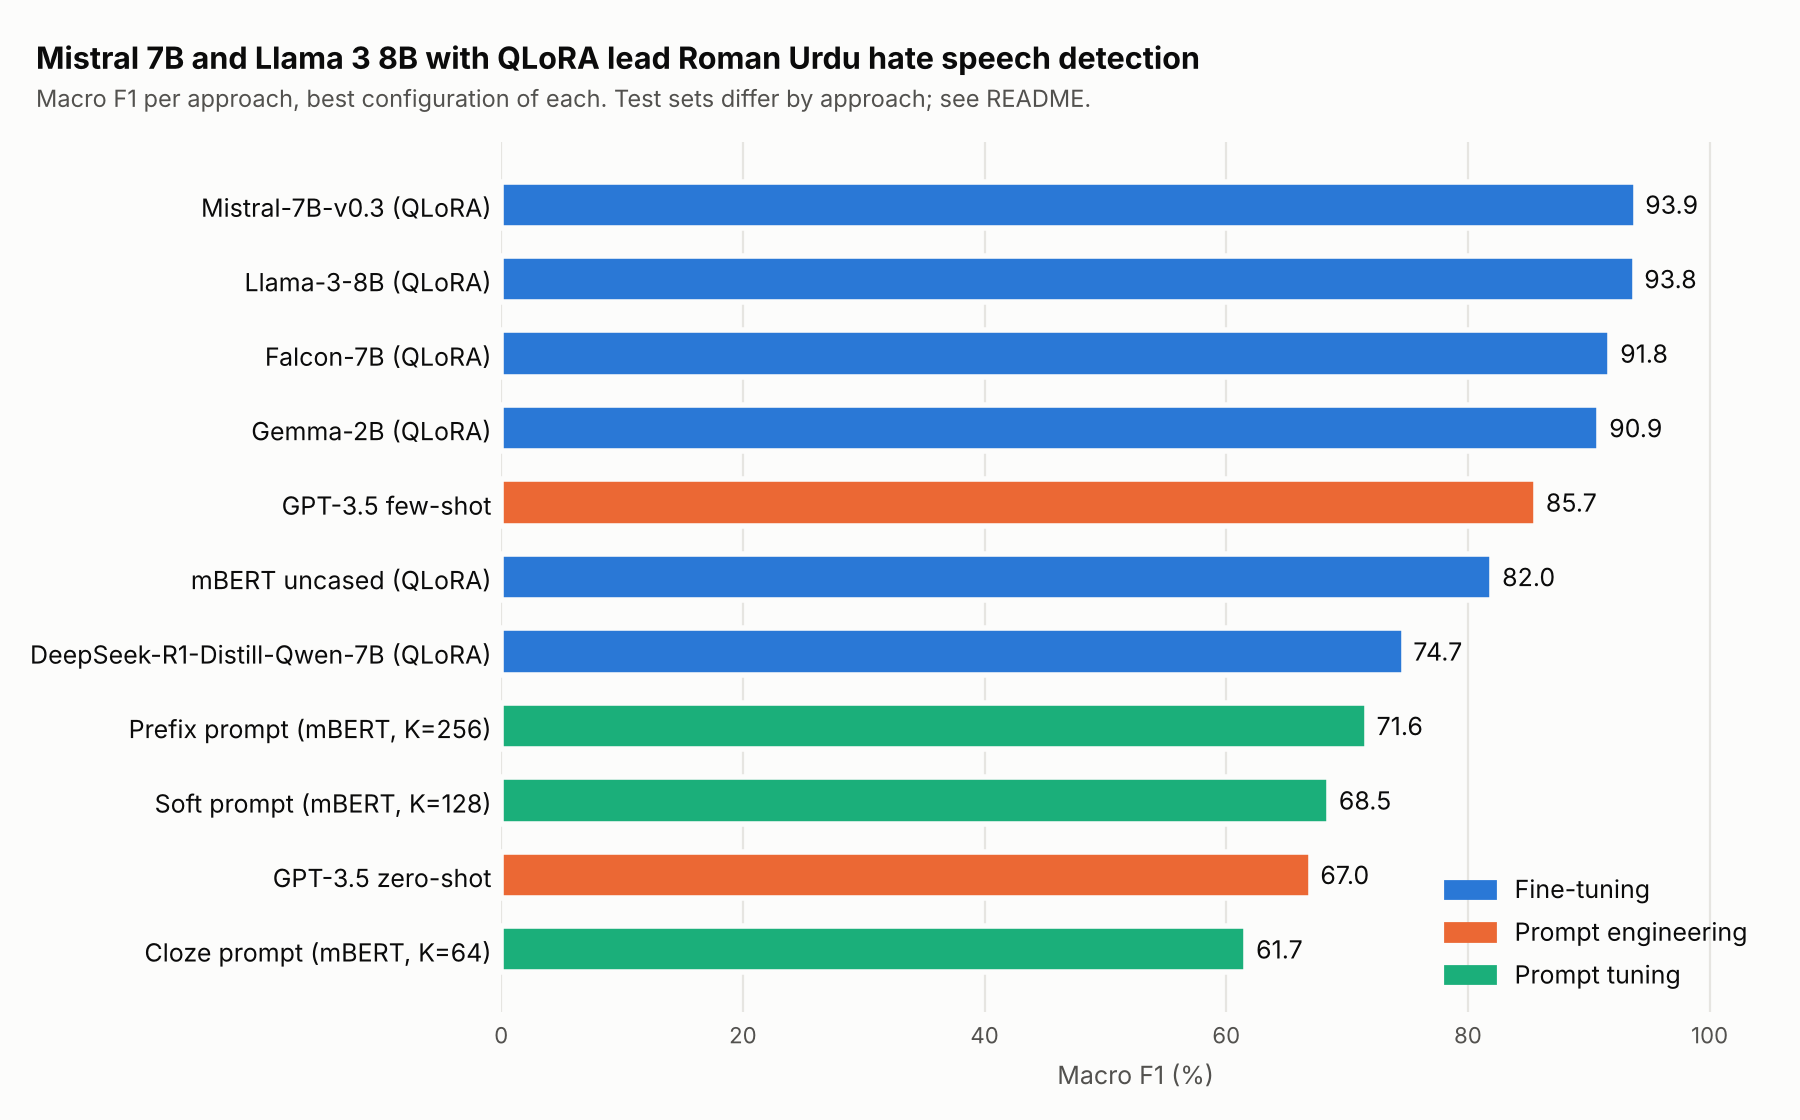
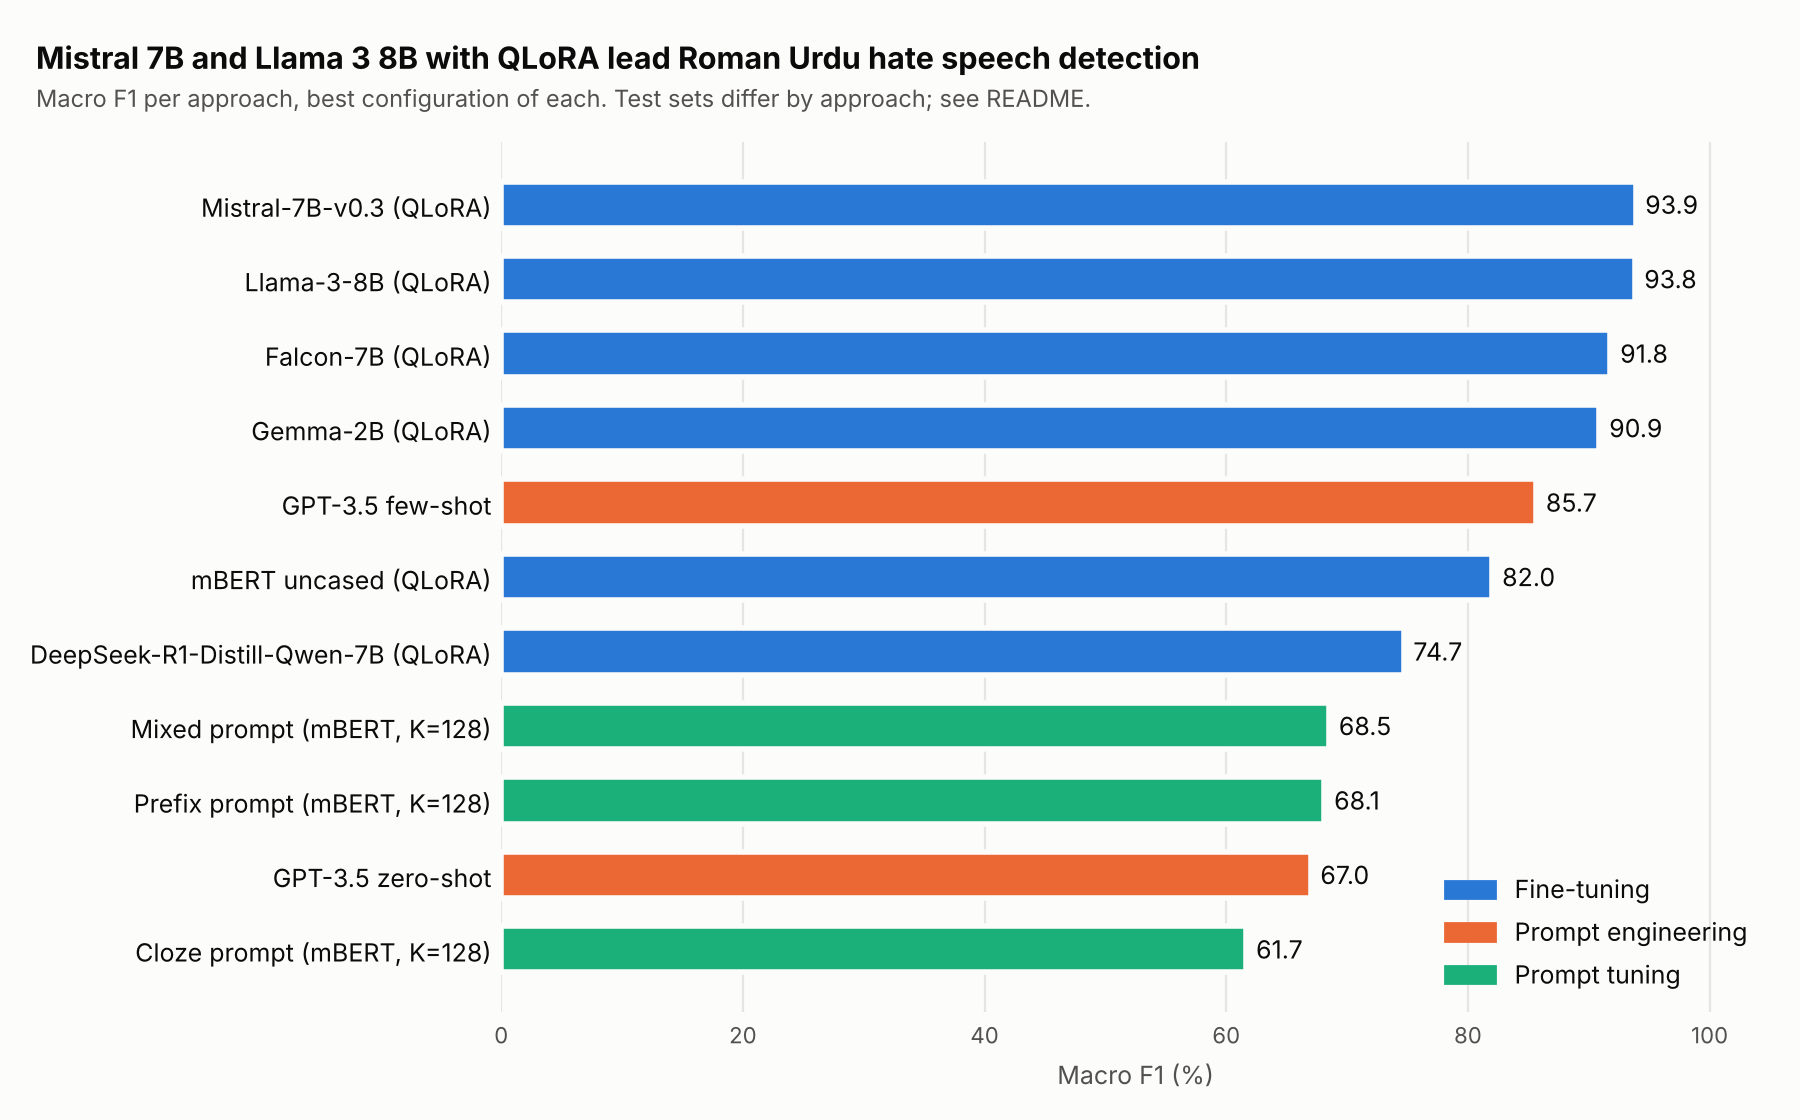
Add method diagrams and result plots, rename soft prompt to mixed

diff --git a/README.md b/README.md
@@ -5,7 +5,7 @@
 Code for my M.S. Data Science thesis at the Information Technology University (ITU), Lahore. Roman Urdu (Urdu written in Latin script) is widely used on social media but has few NLP resources. This project compares three ways of adapting large language models to classify Roman Urdu comments as hate speech or not:
 
 1. **QLoRA fine-tuning** of six open models: Llama 3 8B, Mistral 7B, Falcon 7B, Gemma 2B, DeepSeek-R1-Distill-Qwen 7B and multilingual BERT.
-2. **Prompt tuning** (soft, prefix and cloze prompts) of multilingual BERT in few-shot settings with OpenPrompt.
+2. **Prompt tuning** (mixed, prefix and cloze prompts) of multilingual BERT in few-shot settings with OpenPrompt.
 3. **Prompt engineering** of GPT-3.5 on Azure OpenAI, comparing zero-shot and few-shot prompting.
 
 ![Macro F1 by approach](results/figures/macro_f1_comparison.png)
@@ -15,8 +15,30 @@ Code for my M.S. Data Science thesis at the Information Technology University (I
 - **QLoRA fine-tuning gives the best results.** Mistral 7B v0.3 (93.9% macro F1, 96.4% accuracy) and Llama 3 8B (93.8% macro F1) lead, while training only small LoRA adapters on a 4-bit quantised model.
 - **Small models stay competitive.** Gemma 2B reaches 90.9% macro F1 in about a quarter of the training time of the 7–8B models.
 - **Few-shot prompting is a strong no-training option.** Adding curated examples to the GPT-3.5 prompt raised macro F1 from 67.0% (zero-shot) to 85.7%.
-- **Prompt tuning with very few labels is limited.** With 64–256 examples per class, mBERT prompt tuning reaches 62–72% macro F1, and results vary between random samples.
+- **Prompt tuning with very few labels is limited.** With 32–128 examples per class, mBERT prompt tuning reaches 62–69% macro F1, improving steadily as K grows.
 - **A reasoning-distilled model underperformed.** DeepSeek-R1-Distill-Qwen 7B scored 74.7% macro F1, the lowest of the fine-tuned 7B models.
+
+## Methods
+
+### 1. QLoRA fine-tuning
+
+Each model is loaded in 4-bit NF4 precision and frozen. Small low-rank adapter matrices (LoRA, r=16) are trained on top, so only a tiny fraction of the weights change. A sequence-classification head predicts toxic / non-toxic, and a class-weighted loss handles the 82/18 class imbalance.
+
+<img src="docs/diagrams/qlora_vs_full_finetuning.jpg" alt="Full fine-tuning vs LoRA fine-tuning" width="640">
+
+### 2. Prompt tuning (OpenPrompt)
+
+The comment is wrapped in a Roman Urdu template with a `[MASK]` slot. BERT's masked-language-model head predicts a word for the mask, and a **verbalizer** maps label words to classes (e.g. *muhabbat, pyaar, acha* → not toxic; *nafrat, ghussa, gaali* → toxic). The **mixed prompt** adds trainable soft tokens; the **cloze** and **prefix** prompts use fixed hand-written templates.
+
+<img src="docs/diagrams/mixed_prompt.jpg" alt="Mixed prompt with soft tokens" width="640">
+
+<img src="docs/diagrams/cloze_and_prefix_prompts.jpg" alt="Cloze and prefix prompts" width="640">
+
+### 3. Prompt engineering (GPT-3.5)
+
+The zero-shot prompt gives only task instructions. The few-shot prompt adds curated labelled examples as user/assistant message pairs before the comment to classify.
+
+<img src="docs/diagrams/few_shot_prompt_construction.jpg" alt="Few-shot prompt construction" width="260">
 
 ## Results
 
@@ -35,7 +57,19 @@ Test set: last 20% of the data (14,555 comments). 4-bit NF4 quantisation, LoRA r
 | mBERT (uncased) | 89.4% | 81.8% | 82.2% | 82.0% | 0h 25m |
 | DeepSeek-R1-Distill-Qwen-7B | 83.5% | 72.8% | 77.7% | 74.7% | 4h 21m |
 
-Before fine-tuning, every model scored 49–56% balanced accuracy, close to chance.
+Before fine-tuning, most models labelled almost every comment as toxic (macro F1 0.15–0.56). Fine-tuning lifted every model above 0.74.
+
+![Macro F1 before vs after fine-tuning](results/figures/fine_tuning_f1_before_vs_after.png)
+
+<details>
+<summary>More fine-tuning charts</summary>
+
+![Metrics after fine-tuning](results/figures/fine_tuning_metrics_after.png)
+![Predicted vs actual labels after fine-tuning](results/figures/fine_tuning_predicted_vs_actual_after.png)
+![Metrics before fine-tuning](results/figures/fine_tuning_metrics_before.png)
+![Predicted vs actual labels before fine-tuning](results/figures/fine_tuning_predicted_vs_actual_before.png)
+
+</details>
 
 ### Prompt engineering (GPT-3.5 on Azure OpenAI)
 
@@ -46,15 +80,28 @@ Evaluated over the full dataset at temperature 0.
 | Few-shot (curated examples) | 91.0% | 82.8% | 89.9% | **85.7%** |
 | Zero-shot | 72.3% | 68.0% | 81.3% | 67.0% |
 
+<img src="results/figures/zero_shot_vs_few_shot.png" alt="Zero-shot vs few-shot metrics" width="640">
+
 ### Prompt tuning (mBERT, OpenPrompt)
 
-K labelled examples per class, 3 epochs, 2 random rounds per K, tested on all remaining examples. Best run shown.
+K labelled examples per class (K = 32, 64, 128), 3 epochs, 2 random rounds per K, tested on all remaining examples. Best run shown.
 
 | Method | Template | Best K | Accuracy | Macro F1 |
 |---|---|---|---|---|
-| Prefix prompt | `<comment> Ye hai [MASK]!` | 256 | 82.7% | **71.6%** |
-| Soft prompt | `<comment> [soft: Yeh] [soft: comment hai] [MASK]` | 128 | 75.0% | 68.5% |
-| Cloze prompt | `<comment> Ye[MASK] hai!` | 64 | 68.4% | 61.7% |
+| Mixed prompt | `<comment> [soft: Yeh] [soft: comment hai] [MASK]` | 128 | 75.0% | **68.5%** |
+| Prefix prompt | `<comment> Ye hai [MASK]!` | 128 | 80.5% | 68.1% |
+| Cloze prompt | `<comment> Ye[MASK] hai!` | 128 | 68.4% | 61.7% |
+
+<img src="results/figures/bert_techniques_f1.png" alt="Macro F1 for each BERT technique" width="480">
+
+<details>
+<summary>Metrics by K for each prompt</summary>
+
+![Mixed prompt metrics by K](results/figures/mixed_prompt_metrics_by_k.png)
+![Prefix prompt metrics by K](results/figures/prefix_prompt_metrics_by_k.png)
+![Cloze prompt metrics by K](results/figures/cloze_prompt_metrics_by_k.png)
+
+</details>
 
 All figures are in [`results/metrics.csv`](results/metrics.csv). The three approaches were evaluated on different test sets, so compare across approaches with care.
 
@@ -63,11 +110,12 @@ All figures are in [`results/metrics.csv`](results/metrics.csv). The three appro
 ```
 ├── notebooks/
 │   ├── 1_fine_tuning/          # QLoRA fine-tuning of 6 models
-│   ├── 2_prompt_tuning/        # Soft, prefix and cloze prompt tuning (OpenPrompt)
+│   ├── 2_prompt_tuning/        # Mixed, prefix and cloze prompt tuning (OpenPrompt)
 │   └── 3_prompt_engineering/   # Zero-shot and few-shot prompting (Azure OpenAI)
 ├── results/
 │   ├── metrics.csv
-│   └── figures/
+│   └── figures/                # Result charts
+├── docs/diagrams/              # Method diagrams
 ├── data/                       # Dataset goes here (not included)
 ├── requirements.txt
 └── .env.example
